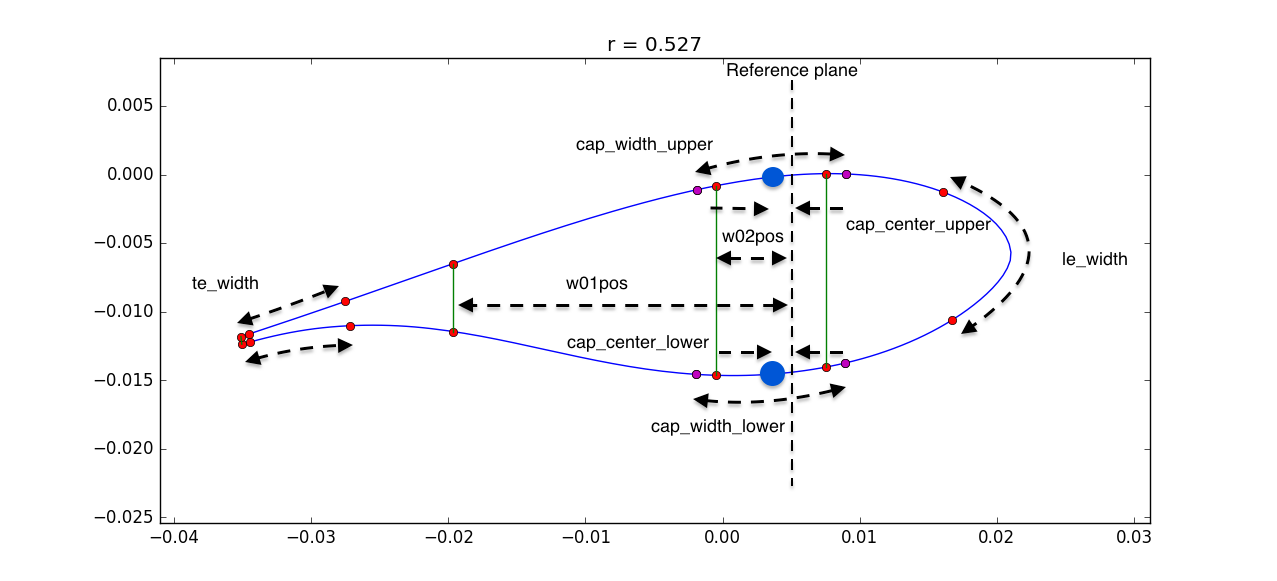
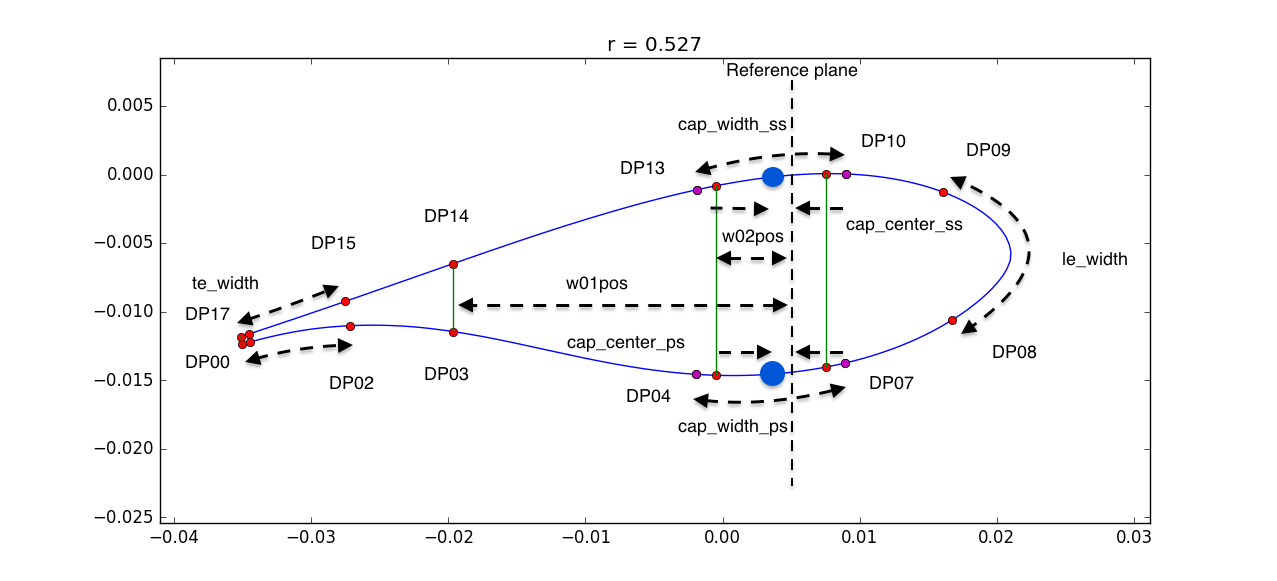
renamed some vars from using upper/lower to ss/ps

diff --git a/fusedwind/turbine/structure.py b/fusedwind/turbine/structure.py
@@ -344,17 +344,17 @@ def write_bladestructure(st3d, filebase):
     fid.close()
 
     # write geo3d file
-    if 'cap_width_lower' in st3d.keys():
+    if 'cap_width_ps' in st3d.keys():
         fid = open(filebase + '.geo3d', 'w')
         fid.write('# version %s\n' % st3d['version'])
         fid.write('# struct_angle %24.15f\n' % st3d['struct_angle'])
         fid.write('# cap_DPs %s\n' % ('  '.join(map(str, st3d['cap_DPs']))))
         fid.write('# te_DPs %s\n' % ('  '.join(map(str, st3d['te_DPs']))))
         fid.write('# le_DPs %s\n' % ('  '.join(map(str, st3d['le_DPs']))))
-        header = ['s', 'cap_center_lower',
-                       'cap_center_upper',
-                       'cap_width_lower',
-                       'cap_width_upper',
+        header = ['s', 'cap_center_ps',
+                       'cap_center_ss',
+                       'cap_width_ps',
+                       'cap_width_ss',
                        'te_width',
                        'le_width']
         header.extend(['w%02dpos' % i for i in range(1, len(st3d['web_def']))])
@@ -438,10 +438,10 @@ def interpolate_bladestructure(st3d, s_new):
         st3dn['cap_DPs'] = st3d['cap_DPs']
         st3dn['te_DPs'] = st3d['te_DPs']
         st3dn['le_DPs'] = st3d['le_DPs']
-        names = ['s', 'cap_center_lower',
-                       'cap_center_upper',
-                       'cap_width_lower',
-                       'cap_width_upper',
+        names = ['s', 'cap_center_ps',
+                       'cap_center_ss',
+                       'cap_width_ps',
+                       'cap_width_ss',
                        'te_width',
                        'le_width']
         names.extend(['w%02dpos' % i for i in range(1, len(st3d['web_def']))])
@@ -528,15 +528,15 @@ class ComputeDPsParam2(object):
     te_width: array
         width of trailing edge panels on lower and upper surfaces
         as function of span
-    cap_center_upper: array
+    cap_center_ss: array
         upper surface cap center position relative to reference axis
         as function of span
-    cap_center_lower: array
+    cap_center_ps: array
         lower surface cap center position relative to reference axis
         as function of span
-    cap_width_upper: array
+    cap_width_ss: array
         width of upper spar cap as function of span
-    cap_width_lower: array
+    cap_width_ps: array
         width of lower spar cap as function of span
     w<%02d>pos: array
         Distance between web and cap center.
@@ -562,43 +562,53 @@ class ComputeDPsParam2(object):
         Division points as function of span, size ((10, ni))
     """
 
-    def __init__(self, st3d, **kwargs):
+    def __init__(self, st3d=None, **kwargs):
+        """
+        Parameters
+        ----------
+        st3d: dict
+            blade structure definition (optional)
+        kwargs: args
+            init arguments to optionally set the class variables
+        """
 
         self.x = np.array([])
         self.y = np.array([])
         self.z = np.array([])
         self.surface = np.array([])
-        # try:
-        self.web_def = st3d['web_def']
-        self.DPs = st3d['DPs']
-        self.s = st3d['s']
-        self.te_DPs = st3d['te_DPs']
-        self.le_DPs = st3d['le_DPs']
-        self.cap_DPs = st3d['cap_DPs']
-        self.le_width = st3d['le_width']
-        self.te_width = st3d['te_width']
-        self.cap_width_upper = st3d['cap_width_upper']
-        self.cap_width_lower = st3d['cap_width_lower']
-        self.cap_center_upper = st3d['cap_center_upper']
-        self.cap_center_lower = st3d['cap_center_lower']
-        self.struct_angle = st3d['struct_angle']
-        print 'struct_angle init', self.struct_angle
-        for i, web_ix in enumerate(self.web_def[1:]):
-            name = 'w%02dpos' % (i+1)
-            setattr(self, name, st3d[name])
-        # except:
-        #     self.te_DPs = []
-        #     self.le_DPs = []
-        #     self.cap_DPs = []
-        #     self.le_width = np.array([])
-        #     self.te_width = np.array([])
-        #     self.cap_width_upper = np.array([])
-        #     self.cap_width_lower = np.array([])
-        #     self.cap_center_upper = np.array([])
-        #     self.cap_center_lower= np.array([])
-        #     self.struct_angle = 0.
-        #     for i, web_ix in enumerate(self.web_def):
-        #         setattr(self, 'w%02dpos' % i, np.array([]))
+        try:
+            self.web_def = st3d['web_def']
+            self.DPs = st3d['DPs']
+            self.s = st3d['s']
+            self.te_DPs = st3d['te_DPs']
+            self.le_DPs = st3d['le_DPs']
+            self.cap_DPs = st3d['cap_DPs']
+            self.le_width = st3d['le_width']
+            self.te_width = st3d['te_width']
+            self.cap_width_ss = st3d['cap_width_ss']
+            self.cap_width_ps = st3d['cap_width_ps']
+            self.cap_center_ss = st3d['cap_center_ss']
+            self.cap_center_ps = st3d['cap_center_ps']
+            self.struct_angle = st3d['struct_angle']
+            for i, web_ix in enumerate(self.web_def[1:]):
+                name = 'w%02dpos' % (i+1)
+                setattr(self, name, st3d[name])
+        except:
+            self.web_def = []
+            self.DPs = np.array([])
+            self.s = np.array([])
+            self.te_DPs = []
+            self.le_DPs = []
+            self.cap_DPs = []
+            self.le_width = np.array([])
+            self.te_width = np.array([])
+            self.cap_width_ss = np.array([])
+            self.cap_width_ps = np.array([])
+            self.cap_center_ss = np.array([])
+            self.cap_center_ps = np.array([])
+            self.struct_angle = 0.
+            for i, web_ix in enumerate(self.web_def):
+                setattr(self, 'w%02dpos' % i, np.array([]))
 
         self.dominant_DPs = []
 
@@ -609,8 +619,6 @@ class ComputeDPsParam2(object):
                 print 'unknown key %s' % k
 
     def compute(self):
-
-        print 'struct_angle', self.struct_angle
 
         self.ni = self.surface.shape[1]
 
@@ -681,20 +689,20 @@ class ComputeDPsParam2(object):
         PAx = self.pitch_axis.points[:, 0]
         for i in range(self.ni):
             af = self.afs[i]
-            x_ccL = PAx[i] + self.cap_center_lower[i]
+            x_ccL = PAx[i] + self.cap_center_ps[i]
             s_ccL = af.interp_x(x_ccL, 'lower')
-            x_ccU = PAx[i] + self.cap_center_upper[i]
+            x_ccU = PAx[i] + self.cap_center_ss[i]
             s_ccU = af.interp_x(x_ccU, 'upper')
-            cwU = self.cap_width_upper[i] / 2 / af.smax
-            cwL = self.cap_width_lower[i] / 2 / af.smax
+            cwU = self.cap_width_ss[i] / 2 / af.smax
+            cwL = self.cap_width_ps[i] / 2 / af.smax
             DPs[i, self.cap_DPs[0]] = af.s_to_11(s_ccL - cwL)
             DPs[i, self.cap_DPs[1]] = af.s_to_11(s_ccL + cwL)
             DPs[i, self.cap_DPs[2]] = af.s_to_11(s_ccU - cwU)
             DPs[i, self.cap_DPs[3]] = af.s_to_11(s_ccU + cwU)
 
             # web DPs
-            x_cc = PAx[i] + 0.5 * (self.cap_center_lower[i] +
-                                   self.cap_center_upper[i])
+            x_cc = PAx[i] + 0.5 * (self.cap_center_ps[i] +
+                                   self.cap_center_ss[i])
             s_ccL = af.interp_x(x_cc, 'lower')
             s_ccU = af.interp_x(x_cc, 'upper')
             for j, web_ix in enumerate(self.web_def[1:]):
@@ -1048,14 +1056,13 @@ class DPsParam2(Component):
         self.add_param('x_st', np.zeros(size))
         self.add_param('y_st', np.zeros(size))
         self.add_param('z_st', np.zeros(size))
-        print 'openmdao', st3d['struct_angle']
         self.add_param('struct_angle', st3d['struct_angle'])
-        self._param2_names = ['cap_width_upper',
-                              'cap_width_lower',
+        self._param2_names = ['cap_width_ss',
+                              'cap_width_ps',
                               'te_width',
                               'le_width',
-                              'cap_center_upper',
-                              'cap_center_lower']
+                              'cap_center_ss',
+                              'cap_center_ps']
 
         for i in range(len(st3d['web_def'][1:])):
             self._param2_names.append('w%02dpos' % (i + 1))
@@ -1078,7 +1085,6 @@ class DPsParam2(Component):
         self._DPs.surface = params['blade_surface_st']
         for name in self._param2_names:
             setattr(self._DPs, name, params[name])
-        print 'run', params['struct_angle']
         self._DPs.struct_angle = params['struct_angle']
         self._DPs.compute()
 
@@ -1213,14 +1219,14 @@ class BladeStructureProperties(Component):
     web_offset%02d: array
         offsets in global coordinate system of connections between
         webs and lower and upper surfaces of OML, respectively
-    pacc_u: array
+    pacc_ss: array
         upper side pitch axis aft cap center in global coordinate system
-    pacc_l: array
+    pacc_ps: array
         lower side pitch axis aft cap center in global coordinate system
-    pacc_u_curv: array
+    pacc_ss_curv: array
         curvature of upper side pitch axis aft cap center in
         global coordinate system
-    pacc_l_curv: array
+    pacc_ps_curv: array
         curvature of lower side pitch axis aft cap center in
         global coordinate system
     """
@@ -1278,10 +1284,10 @@ class BladeStructureProperties(Component):
             self.add_output('web_angle%02d' % i, np.zeros(self.nsec), desc='Web%02d angle' % i)
             self.add_output('web_offset%02d' % i, np.zeros((self.nsec, 2)), desc='Web%02d offset' % i)
 
-        self.add_output('pacc_u', np.zeros((self.nsec, 2)), desc='upper side pitch axis aft cap center')
-        self.add_output('pacc_l', np.zeros((self.nsec, 2)), desc='lower side pitch axis aft cap center')
-        self.add_output('pacc_u_curv', np.zeros(self.nsec), desc='upper side pitch axis aft cap center curvature')
-        self.add_output('pacc_l_curv', np.zeros(self.nsec), desc='lower side pitch axis aft cap center curvature')
+        self.add_output('pacc_ss', np.zeros((self.nsec, 2)), desc='upper side pitch axis aft cap center')
+        self.add_output('pacc_ps', np.zeros((self.nsec, 2)), desc='lower side pitch axis aft cap center')
+        self.add_output('pacc_ss_curv', np.zeros(self.nsec), desc='upper side pitch axis aft cap center curvature')
+        self.add_output('pacc_ps_curv', np.zeros(self.nsec), desc='lower side pitch axis aft cap center curvature')
 
         self.dp_xyz = np.zeros([self.nsec, self.nDP, 3])
         self.dp_s01 = np.zeros([self.nsec, self.nDP])
@@ -1301,14 +1307,14 @@ class BladeStructureProperties(Component):
                 self.dp_xyz[i, j, :] = DPxyz
 
         # upper and lower side pitch axis aft cap center
-        unknowns['pacc_l'][:, :] = (self.dp_xyz[:, self.capDPs[0], [0,1]] + \
+        unknowns['pacc_ps'][:, :] = (self.dp_xyz[:, self.capDPs[0], [0,1]] + \
                                     self.dp_xyz[:, self.capDPs[1], [0,1]]) / 2.
-        unknowns['pacc_u'][:, :] = (self.dp_xyz[:, self.capDPs[2], [0,1]] + \
+        unknowns['pacc_ss'][:, :] = (self.dp_xyz[:, self.capDPs[2], [0,1]] + \
                                     self.dp_xyz[:, self.capDPs[3], [0,1]]) / 2.
 
         # curvatures of region boundary curves
-        unknowns['pacc_l_curv'] = curvature(unknowns['pacc_l'])
-        unknowns['pacc_u_curv'] = curvature(unknowns['pacc_u'])
+        unknowns['pacc_ps_curv'] = curvature(unknowns['pacc_ps'])
+        unknowns['pacc_ss_curv'] = curvature(unknowns['pacc_ss'])
 
         # web angles and offsets relative to rotor plane
         for i, iw in enumerate(self.web_def):

diff --git a/fusedwind/turbine/test/test_splinedstructure.py b/fusedwind/turbine/test/test_splinedstructure.py
@@ -101,7 +101,7 @@ class TestSplinedBladeStructure(unittest.TestCase):
                                    0.06549772,  0.03912888,  0.013     ])
         r04_width = np.array([ 0.01264879,  0.01255458,  0.01049935,  0.00894517,  0.00743887,
                                0.00596788,  0.00448234,  0.00164483])
-        pacc_u = np.array([[ -4.72540562e-06,   3.05060896e-02],
+        pacc_ss = np.array([[ -4.72540562e-06,   3.05060896e-02],
                            [ -5.76655195e-04,   2.24110499e-02],
                            [  4.98821153e-03,   1.01445966e-02],
                            [  4.91489605e-03,   3.40209671e-03],
@@ -116,7 +116,7 @@ class TestSplinedBladeStructure(unittest.TestCase):
 
         self.assertEqual(np.testing.assert_array_almost_equal(p['r04_width'], r04_width, decimal=4), None)
         self.assertEqual(np.testing.assert_array_almost_equal(p['r04_thickness'], r04_thickness, decimal=4), None)
-        self.assertEqual(np.testing.assert_array_almost_equal(p['pacc_u'], pacc_u, decimal=4), None)
+        self.assertEqual(np.testing.assert_array_almost_equal(p['pacc_ss'], pacc_ss, decimal=4), None)
         self.assertEqual(np.testing.assert_array_almost_equal(p['web_angle02'], web_angle02, decimal=4), None)
 
 if __name__ == '__main__':

diff --git a/fusedwind/turbine/test/test_structure.py b/fusedwind/turbine/test/test_structure.py
@@ -10,8 +10,8 @@ import shutil
 st3d_desired = {}
 st3d_desired['web_def'] = np.array([[-1, 0], [2, -3], [4, -5], [5, -6]])
 st3d_desired['bond_def'] = np.array([[0, 1, -2, -1]])
-st3d_desired['cap_width_lower'] = np.linspace(1.1, 0.8, 20) / 86.366
-st3d_desired['cap_width_lower'][-1] = 0.25 / 86.366
+st3d_desired['cap_width_ps'] = np.linspace(1.1, 0.8, 20) / 86.366
+st3d_desired['cap_width_ps'][-1] = 0.25 / 86.366
 st3d_desired['cap_DPs'] = [4, 7, 10, 13]
 st3d_desired['le_DPs'] = [8, 9]
 st3d_desired['te_DPs'] = [2, 15]
@@ -99,8 +99,8 @@ class StructureTests(unittest.TestCase):
                          st3dn['te_DPs'],
                          st3d_desired['te_DPs']), None)
         self.assertEqual(np.testing.assert_array_equal(
-                         st3dn['cap_width_lower'],
-                         st3d_desired['cap_width_lower']), None)
+                         st3dn['cap_width_ps'],
+                         st3d_desired['cap_width_ps']), None)
         shutil.rmtree(self.test_dir)
 
 if __name__ == '__main__':

diff --git a/fusedwind/turbine/test/test_splinedstructure_param2.py b/fusedwind/turbine/test/test_splinedstructure_param2.py
@@ -49,8 +49,8 @@ def configure_with_surface():
                                                     [3, 6, 9, 12]),
                                                     promotes=['*'])
 
-    spl.add_spline(('cap_width_upper',
-                    'cap_width_lower'),
+    spl.add_spline(('cap_width_ss',
+                    'cap_width_ps'),
                     np.linspace(0, 1, 4), spline_type='linear')
     p.setup()
     for k, v in pf.iteritems():
@@ -79,6 +79,6 @@ class TestSplinedBladeStructure(unittest.TestCase):
                                                               decimal=6), None)
 if __name__ == '__main__':
 
-    unittest.main()
-    # p = configure_with_surface()
-    # p.run()
+    # unittest.main()
+    p = configure_with_surface()
+    p.run()

diff --git a/docs/turbine_geometry_and_structure.rst b/docs/turbine_geometry_and_structure.rst
@@ -235,19 +235,22 @@ An example of the header of this file is shown below:
 Starting from the bottom line, the primary parameters describing the structural
 geometry are:
 
-* *cap_center_lower*, *cap_center_upper*: Lower and upper spar cap centers relative
-reference plane.
+* *cap_center_ps*, *cap_center_ss*: Lower and upper spar cap centers relative to the reference plane. Positive towards trailing edge.
 
-* *cap_width_lower*, *cap_width_upper*: Lower and upper spar cap widths
+* *cap_width_ps*, *cap_width_ss*: Lower and upper spar cap widths measured as surface curve length.
 
-* *te_width*, *le_width*: Trailing and leading edge reinforcement widths (le_width spans across the leading edge).
+* *te_width*, *le_width*: Trailing and leading edge reinforcement widths (le_width spans across the leading edge) measured as surface curve length.
 
-* *w01pos*, *w02pos*, *w03pos*: web positions relative to reference plane.
+* *w01pos*, *w02pos*, *w03pos*: web positions relative to the reference plane. Positive towards trailing edge.
 
-The parameters *le_DPs*, *te_DPs*, and *cap_DPs* indicate the DP indices that constitute
-the trailing edge and leading edge reinforcement regions, and the two spar caps.
-Finally, the *struct_angle* is the angle between the reference plane and the rotor
-plane, defined positive nose up.
+The above quantities are all a function of unit span normalized with the blade length.
+The additional parameters that need to be defined are:
+
+* *le_DPs*: DPs enclosing the leading edge reinforcement.
+* *te_DPs*: DPs enclosing the trailing edge reinforcements.
+* *cap_DPs*: indices that enclose the two spar caps.
+* *struct_angle*: The angle between the reference plane and the rotor
+plane, defined positive nose up. Note that this angle is independent of the aerodynamic twist, and is purely used to place the webs and main laminates.
 
 The schematic below shows a blade cross section with the above quantities.
 The reference plane that the caps and webs are placed relative to is a vertical plane
@@ -256,7 +259,7 @@ starting at the blade root, ending at the blade tip.
 .. _bladestructure_spline-fig:
 
 .. figure:: /images/param2_schematic.png
-    :width: 80 %
+    :width: 100 %
     :align: center
 
     Schematic showing the geometric parameterisation of the blade structure.
